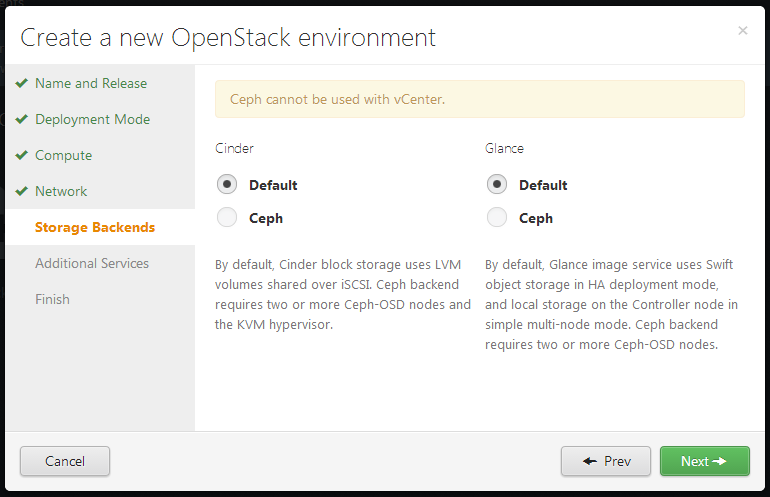
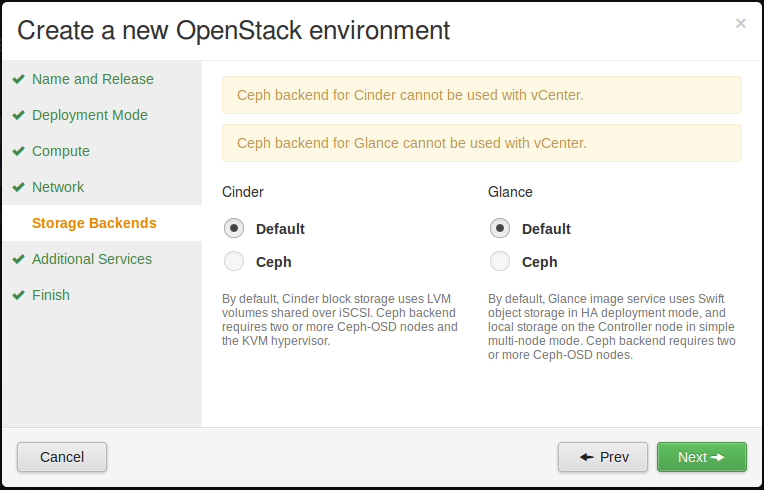
document VMDK driver support for Cinder block storage
- mention that starting with Fuel 5.1 we support VMDK driver for Cinder
- explicitly state that user has to change Cinder backend after
  finishing environment creation with vCenter as hypervisor option
- update screenshot where user selects storage backends for Cinder and
  Glance, right now there is no choice available, becase currently Ceph
  cannot be used with vCenter
- add screenshot showing where user can change Cinder storage backend
- correct Cinder definition in Terminology reference, that *VMDK*
  driver enables vCenter datastores support, not *vCenter* driver
- remove limitation in Planning guide that tells that VMDK driver is not
  supported, which is not true anymore
- add limitation in Planning guide that the only supported backend for
  Cinder is VMDK driver

Implements: blueprint vcenter-documentation-update-fuel-5.1

Changed region(s): [[0.0, 0.0, 1.0, 1.0], [0.2709, 0.5204, 0.9634, 0.7347]]

diff --git a/pages/user-guide/vcenter.rst b/pages/user-guide/vcenter.rst
@@ -73,15 +73,24 @@ to deploy vCenter with Fuel 5.0.
 Choose Backend for Cinder and Glance with vCenter
 -------------------------------------------------
 
-Ceph cannot be used as a Cinder backend;
-you should select the LVM over iSCSI option.
+Ceph cannot be used as a Cinder or Glance backend;
+the only choice here is to leave default options.
+The default options are LVM over iSCSI for Cinder and
+Swift for Glance.
+Starting with Fuel 5.1, you must use the VMDK driver as
+Cinder storage backend.
 
 .. image:: /_images/user_screen_shots/vcenter-cinder.png
    :width: 50%
 
-- If you are using the Multi-node HA mode,
-  Swift is used as a backend for Cinder
-  and is automatically installed on the Controller nodes.
+After you create the environment, you must enable the VMDK
+driver for Cinder on Settings tab.  First you must uncheck
+LVM over iSCSI option, after that VMware vCenter for volumes
+becomes available.
+
+.. image:: /_images/user_screen_shots/cinder-vmdk-backend.png
+   :width: 50%
+
 - If you are using the Multi-node (no HA) mode,
   local storage is used as the backend for Glance.
 

diff --git a/pages/terminology/v/vmdk.rst b/pages/terminology/v/vmdk.rst
@@ -4,11 +4,20 @@
 VMDK
 ----
 
-VMDK is a virtual machine disk format used by VMware :ref:`esxi-term`.
-
+The :ref:`vcenter-term` VMDK driver
+provides support for the virtual machine disk format
+used by VMware :ref:`esxi-term`.
+This driver is used to store Cinder volumes
+in data stores that are managed by vCenter.
 You can use Fuel 5.1 and later
 to deploy a Mirantis OpenStack environment
-that can utilize VMDK support.
+that utilizes VMDK support.
 
-- For more technical details about VMDK format, see
-  `Virtual Disk Format 5.0 <https://www.vmware.com/support/developer/vddk/vmdk_50_technote.pdf>`_
+For more information, see:
+
+- `Virtual Disk Format 5.0 <https://www.vmware.com/support/developer/vddk/vmdk_50_technote.pdf>`_
+
+- `OpenStack vCenter VMDK configuration documentation
+  <http://docs.openstack.org/trunk/config-reference/content/vmware-vmdk-driver.html>`_
+
+

diff --git a/pages/planning-guide/7000-vcenter-plan.rst b/pages/planning-guide/7000-vcenter-plan.rst
@@ -105,12 +105,10 @@ Limitations
   where virtual instances will be launched.
 - Only :ref:`nova-network-term` with FlatDHCP mode is supported
   in the current version of the integration.
-- OpenStack Block Storage service (Cinder)
-  with VMware VMDK datastore driver is not supported;
-  you can only use Cinder with the LVM over iSCSI option
-  as the Cinder backend.
 - Each OpenStack environment can support one vCenter cluster.
 - :ref:`security-groups-term` are not supported.
+- Each OpenStack environment can support one vCenter cluster.
+- The only supported backend for Cinder is VMDK.
 
 For background information about how vCenter support
 is integrated into Mirantis OpenStack, see :ref:`vcenter-arch`.

diff --git a/pages/terminology/c/cinder.rst b/pages/terminology/c/cinder.rst
@@ -14,5 +14,5 @@ or can share a Controller node.
 For information about deploying Cinder in Mirantis OpenStack,
 see `Storage Architecture <http://docs.mirantis.com/fuel/fuel-4.1/reference-architecture.html#storage-architecture>`_.
 
-The :ref:`vcenter-term` driver
-provides vSphere datastore drivers for Cinder block storage.
+The :ref:`vmdk-term` driver provides vCenter datastores for
+Cinder block storage.

diff --git a/pages/reference-architecture/storage/0300-block-storage-for-volumes.rst b/pages/reference-architecture/storage/0300-block-storage-for-volumes.rst
@@ -28,3 +28,5 @@ If you combine RBD backends for Cinder and Glance, you gain another
 important advantage over Cinder LVM: copy-on-write cloning of Glance
 images into bootable Ceph volumes.
 
+If you are using :ref:`vcenter-term` as the hypervisor,
+you must use the **VMDK** driver to store your volumes in vCenter datastore.

diff --git a/pages/terminology/v/vsphere.rst b/pages/terminology/v/vsphere.rst
@@ -5,5 +5,5 @@ vSphere
 -------
 
 vSphere is a VMWare software suite that includes
-packages such as :ref:`vcenter-term`, :ref:`esxi-term`.
+packages such as :ref:`vcenter-term` and :ref:`esxi-term`.
 :ref:`vcenter-term` is licensed separately to supplement vSphere.
